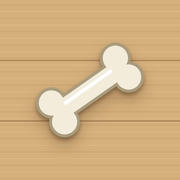
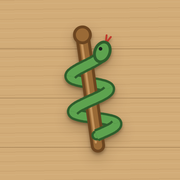
Människokroppen 1.1: Asklepios-staven ersätter benet på bänken och som ikon
Claude-Session: https://claude.ai/code/session_016eVhoXegXU31gHNxpZ84cz

diff --git a/index.html b/index.html
@@ -411,7 +411,7 @@ footer.site a{color:#fff}
     americano: S+'<g transform="rotate(38 60 60)"><rect x="54" y="74" width="12" height="40" rx="5" fill="#1B1F1E"/><path d="M54 86l12-3M54 94l12-3M54 102l12-3" stroke="#555" stroke-width="1.5"/><path d="M60 8c17 0 28 13 28 30 0 14-9 24-18 31l-4 9H54l-4-9c-9-7-18-17-18-31C32 21 43 8 60 8z" fill="#1D5A84" stroke="#123E5C" stroke-width="3" stroke-linejoin="round"/><g fill="#A9CBE4"><circle cx="52" cy="21" r="2.5"/><circle cx="60" cy="21" r="2.5"/><circle cx="68" cy="21" r="2.5"/><circle cx="44" cy="30" r="2.5"/><circle cx="52" cy="30" r="2.5"/><circle cx="60" cy="30" r="2.5"/><circle cx="68" cy="30" r="2.5"/><circle cx="76" cy="30" r="2.5"/><circle cx="44" cy="39" r="2.5"/><circle cx="52" cy="39" r="2.5"/><circle cx="60" cy="39" r="2.5"/><circle cx="68" cy="39" r="2.5"/><circle cx="76" cy="39" r="2.5"/><circle cx="52" cy="48" r="2.5"/><circle cx="60" cy="48" r="2.5"/><circle cx="68" cy="48" r="2.5"/><circle cx="60" cy="57" r="2.5"/></g></g><circle cx="96" cy="96" r="12" fill="#D4E24A" stroke="#9FAD22" stroke-width="2"/><path d="M86 91c7 2 12 8 13 16" fill="none" stroke="#fff" stroke-opacity=".85" stroke-width="2"/></svg>',
     huvudstaden: S+'<circle cx="60" cy="62" r="47" fill="none" stroke="#B8892E" stroke-width="4"/><circle cx="60" cy="15" r="5" fill="#8C6520"/><circle cx="60" cy="109" r="5" fill="#8C6520"/><circle cx="60" cy="62" r="40" fill="#5FA8D3" stroke="#2F6F99" stroke-width="2.5"/><g fill="#7DB56A"><path d="M38 40c8-8 20-8 26-2 4 5-2 10-8 12-4 2-3 8-9 9-8 1-14-10-9-19z"/><path d="M70 62c8-3 18 2 18 10s-8 16-14 14c-6-2-2-9-6-13-3-4-3-9 2-11z"/><path d="M40 78c5-2 10 2 9 7-1 4-7 5-10 1-2-3-2-6 1-8z"/></g><path d="M32 46a32 32 0 0 1 26-18" fill="none" stroke="#fff" stroke-opacity=".3" stroke-width="5" stroke-linecap="round"/><ellipse cx="62" cy="50" rx="7" ry="3" fill="#000" fill-opacity=".25"/><circle cx="58" cy="44" r="8" fill="#D8412F" stroke="#9C2A1C" stroke-width="2"/><circle cx="55.5" cy="41.5" r="2.4" fill="#fff" fill-opacity=".75"/></svg>',
     floder: S+'<g transform="rotate(-6 60 60)"><rect x="12" y="22" width="96" height="76" rx="3" fill="#F3EAD2" stroke="#C9BB95" stroke-width="2"/><path d="M12 62c14-10 22 6 34 2s14-18 30-14 20 16 32 10v38H12z" fill="#D5E3B8"/><path d="M44 22v76M76 22v76" stroke="#D5C9A6" stroke-width="1.5"/><path d="M20 32c14 2 16 14 28 16s14-8 24-4 10 18 30 22" fill="none" stroke="#2F86C5" stroke-width="4.5" stroke-linecap="round"/><path d="M50 49c-2 10-10 12-12 24" fill="none" stroke="#2F86C5" stroke-width="2.8" stroke-linecap="round"/><ellipse cx="38" cy="80" rx="12" ry="7" fill="#4FA3DD"/></g></svg>',
-    manniskokroppen: S+'<g transform="rotate(-35 60 60)"><g fill="#A99B7C" stroke="#A99B7C" stroke-width="5"><rect x="28" y="52" width="64" height="16" rx="8"/><circle cx="26" cy="50" r="11"/><circle cx="26" cy="70" r="11"/><circle cx="94" cy="50" r="11"/><circle cx="94" cy="70" r="11"/></g><g fill="#F3ECDB"><rect x="28" y="52" width="64" height="16" rx="8"/><circle cx="26" cy="50" r="11"/><circle cx="26" cy="70" r="11"/><circle cx="94" cy="50" r="11"/><circle cx="94" cy="70" r="11"/></g><path d="M36 57h48" stroke="#fff" stroke-width="3" stroke-linecap="round"/></g></svg>',
+    manniskokroppen: S+'<g transform="rotate(-8 60 60)"><g fill="none" stroke-linecap="round" stroke-linejoin="round"><g stroke="#2E5E2C" stroke-width="11"><path d="M78.4 92.0 L78.3 91.6 L78.1 91.2 L77.7 90.9 L77.3 90.5 L76.8 90.2 L76.2 89.8 L75.6 89.5 L74.9 89.2 L74.1 88.8 L73.2 88.5 L72.2 88.1 L71.2 87.8 L70.2 87.4 L69.1 87.0 L68.0 86.7 L66.8 86.3 L65.6 86.0 L64.3 85.7 L63.1 85.3 L61.8 85.0 L60.6 84.6 L59.3 84.2 L58.0 83.9 L56.8 83.5 L55.6 83.2 L54.4 82.8 L53.2 82.5 L52.0 82.2 L51.0 81.8 L49.9 81.5 L48.9 81.1 L48.0 80.8 L47.1 80.4 L46.3 80.0 L45.6 79.7 L44.9 79.3 L44.3 79.0 L43.8 78.7 L43.4 78.3 L43.1 78.0 L42.8 77.6 L42.7 77.2 L42.6 76.9 L42.6 76.5"/><path d="M76.3 60.8 L76.2 60.5 L76.0 60.1 L75.7 59.8 L75.3 59.4 L74.8 59.1 L74.3 58.7 L73.7 58.4 L73.1 58.0 L72.3 57.6 L71.6 57.3 L70.7 57.0 L69.8 56.6 L68.9 56.2 L67.9 55.9 L66.9 55.5 L65.9 55.2 L64.8 54.9 L63.7 54.5 L62.6 54.1 L61.5 53.8 L60.4 53.4 L59.3 53.1 L58.1 52.8 L57.0 52.4 L56.0 52.0 L54.9 51.7 L53.9 51.4 L52.9 51.0 L51.9 50.7 L51.0 50.3 L50.1 50.0 L49.3 49.6 L48.6 49.2 L47.9 48.9 L47.2 48.6 L46.7 48.2 L46.2 47.9 L45.7 47.5 L45.4 47.1 L45.1 46.8 L44.9 46.4 L44.8 46.1 L44.7 45.8 L44.7 45.4"/></g><g stroke="#5DA34F" stroke-width="7"><path d="M78.4 92.0 L78.3 91.6 L78.1 91.2 L77.7 90.9 L77.3 90.5 L76.8 90.2 L76.2 89.8 L75.6 89.5 L74.9 89.2 L74.1 88.8 L73.2 88.5 L72.2 88.1 L71.2 87.8 L70.2 87.4 L69.1 87.0 L68.0 86.7 L66.8 86.3 L65.6 86.0 L64.3 85.7 L63.1 85.3 L61.8 85.0 L60.6 84.6 L59.3 84.2 L58.0 83.9 L56.8 83.5 L55.6 83.2 L54.4 82.8 L53.2 82.5 L52.0 82.2 L51.0 81.8 L49.9 81.5 L48.9 81.1 L48.0 80.8 L47.1 80.4 L46.3 80.0 L45.6 79.7 L44.9 79.3 L44.3 79.0 L43.8 78.7 L43.4 78.3 L43.1 78.0 L42.8 77.6 L42.7 77.2 L42.6 76.9 L42.6 76.5"/><path d="M76.3 60.8 L76.2 60.5 L76.0 60.1 L75.7 59.8 L75.3 59.4 L74.8 59.1 L74.3 58.7 L73.7 58.4 L73.1 58.0 L72.3 57.6 L71.6 57.3 L70.7 57.0 L69.8 56.6 L68.9 56.2 L67.9 55.9 L66.9 55.5 L65.9 55.2 L64.8 54.9 L63.7 54.5 L62.6 54.1 L61.5 53.8 L60.4 53.4 L59.3 53.1 L58.1 52.8 L57.0 52.4 L56.0 52.0 L54.9 51.7 L53.9 51.4 L52.9 51.0 L51.9 50.7 L51.0 50.3 L50.1 50.0 L49.3 49.6 L48.6 49.2 L47.9 48.9 L47.2 48.6 L46.7 48.2 L46.2 47.9 L45.7 47.5 L45.4 47.1 L45.1 46.8 L44.9 46.4 L44.8 46.1 L44.7 45.8 L44.7 45.4"/></g></g><rect x="55" y="10" width="10" height="104" rx="5" fill="#9A6A36" stroke="#6B4520" stroke-width="2.5"/><path d="M58.5 18v88" stroke="#C4945C" stroke-width="2" stroke-linecap="round"/><circle cx="60" cy="11" r="7" fill="#9A6A36" stroke="#6B4520" stroke-width="2.5"/><circle cx="60.0" cy="100.0" r="3.5" fill="#5DA34F" stroke="#2E5E2C" stroke-width="2"/><g fill="none" stroke-linecap="butt" stroke-linejoin="round"><g stroke="#2E5E2C" stroke-width="11"><path d="M60.0 100.0 L61.3 99.7 L62.7 99.3 L64.0 99.0 L65.3 98.6 L66.5 98.2 L67.8 97.9 L68.9 97.5 L70.1 97.2 L71.2 96.8 L72.2 96.5 L73.1 96.2 L74.0 95.8 L74.9 95.5 L75.6 95.1 L76.3 94.8 L76.8 94.4 L77.3 94.0 L77.8 93.7 L78.1 93.3 L78.3 93.0 L78.4 92.7 L78.5 92.3 L78.4 92.0"/><path d="M42.6 76.5 L42.7 76.2 L42.9 75.8 L43.1 75.5 L43.5 75.2 L43.9 74.8 L44.4 74.5 L45.0 74.1 L45.7 73.8 L46.4 73.4 L47.2 73.0 L48.1 72.7 L49.0 72.3 L49.9 72.0 L51.0 71.7 L52.0 71.3 L53.1 71.0 L54.2 70.6 L55.4 70.2 L56.6 69.9 L57.7 69.5 L58.9 69.2 L60.1 68.8 L61.3 68.5 L62.5 68.2 L63.7 67.8 L64.8 67.4 L65.9 67.1 L67.0 66.8 L68.1 66.4 L69.1 66.1 L70.0 65.7 L70.9 65.3 L71.8 65.0 L72.5 64.7 L73.3 64.3 L73.9 63.9 L74.5 63.6 L75.0 63.2 L75.4 62.9 L75.8 62.5 L76.0 62.2 L76.2 61.8 L76.3 61.5 L76.4 61.1 L76.3 60.8"/><path d="M44.7 45.4 L44.8 45.0 L45.0 44.7 L45.2 44.3 L45.5 44.0 L45.9 43.6 L46.4 43.3 L46.9 43.0 L47.5 42.6 L48.2 42.2 L48.9 41.9 L49.6 41.6 L50.4 41.2 L51.3 40.9 L52.2 40.5 L53.1 40.1 L54.1 39.8 L55.1 39.5 L56.1 39.1 L57.1 38.8 L58.1 38.4 L59.2 38.0 L60.2 37.7 L61.3 37.4 L62.3 37.0 L63.3 36.6 L64.3 36.3 L65.3 36.0 L66.2 35.6 L67.1 35.2 L68.0 34.9 L68.8 34.5 L69.6 34.2 L70.3 33.9 L71.0 33.5 L71.6 33.2 L72.2 32.8 L72.7 32.5 L73.1 32.1 L73.5 31.8 L73.8 31.4 L74.0 31.0 L74.2 30.7 L74.2 30.3 L74.2 30.0"/></g><g stroke="#5DA34F" stroke-width="7"><path d="M60.0 100.0 L61.3 99.7 L62.7 99.3 L64.0 99.0 L65.3 98.6 L66.5 98.2 L67.8 97.9 L68.9 97.5 L70.1 97.2 L71.2 96.8 L72.2 96.5 L73.1 96.2 L74.0 95.8 L74.9 95.5 L75.6 95.1 L76.3 94.8 L76.8 94.4 L77.3 94.0 L77.8 93.7 L78.1 93.3 L78.3 93.0 L78.4 92.7 L78.5 92.3 L78.4 92.0"/><path d="M42.6 76.5 L42.7 76.2 L42.9 75.8 L43.1 75.5 L43.5 75.2 L43.9 74.8 L44.4 74.5 L45.0 74.1 L45.7 73.8 L46.4 73.4 L47.2 73.0 L48.1 72.7 L49.0 72.3 L49.9 72.0 L51.0 71.7 L52.0 71.3 L53.1 71.0 L54.2 70.6 L55.4 70.2 L56.6 69.9 L57.7 69.5 L58.9 69.2 L60.1 68.8 L61.3 68.5 L62.5 68.2 L63.7 67.8 L64.8 67.4 L65.9 67.1 L67.0 66.8 L68.1 66.4 L69.1 66.1 L70.0 65.7 L70.9 65.3 L71.8 65.0 L72.5 64.7 L73.3 64.3 L73.9 63.9 L74.5 63.6 L75.0 63.2 L75.4 62.9 L75.8 62.5 L76.0 62.2 L76.2 61.8 L76.3 61.5 L76.4 61.1 L76.3 60.8"/><path d="M44.7 45.4 L44.8 45.0 L45.0 44.7 L45.2 44.3 L45.5 44.0 L45.9 43.6 L46.4 43.3 L46.9 43.0 L47.5 42.6 L48.2 42.2 L48.9 41.9 L49.6 41.6 L50.4 41.2 L51.3 40.9 L52.2 40.5 L53.1 40.1 L54.1 39.8 L55.1 39.5 L56.1 39.1 L57.1 38.8 L58.1 38.4 L59.2 38.0 L60.2 37.7 L61.3 37.4 L62.3 37.0 L63.3 36.6 L64.3 36.3 L65.3 36.0 L66.2 35.6 L67.1 35.2 L68.0 34.9 L68.8 34.5 L69.6 34.2 L70.3 33.9 L71.0 33.5 L71.6 33.2 L72.2 32.8 L72.7 32.5 L73.1 32.1 L73.5 31.8 L73.8 31.4 L74.0 31.0 L74.2 30.7 L74.2 30.3 L74.2 30.0"/></g></g><g transform="translate(74.2 30.0) rotate(-60)"><path d="M10 0l7-2M10 0l7 2" stroke="#C0392B" stroke-width="1.6" stroke-linecap="round"/><ellipse cx="2" cy="0" rx="9" ry="6.5" fill="#5DA34F" stroke="#2E5E2C" stroke-width="2.5"/><circle cx="4" cy="-2.5" r="1.6" fill="#1B1F1E"/></g></g></svg>',
     kung: S+'<g transform="rotate(9 60 60)"><rect x="29" y="12" width="62" height="96" rx="7" fill="#FFFDF7" stroke="#C4BCA8" stroke-width="2"/><text x="36" y="33" font-family="Georgia,serif" font-weight="700" font-size="17" fill="#B3261E">K</text><text x="84" y="87" font-family="Georgia,serif" font-weight="700" font-size="17" fill="#B3261E" transform="rotate(180 84 87)" text-anchor="start">K</text><path d="M41 72l3-24 10 11 6-16 6 16 10-11 3 24z" fill="#E3B23C" stroke="#9C7210" stroke-width="2" stroke-linejoin="round"/><rect x="40" y="71" width="40" height="8" rx="2" fill="#C8922A" stroke="#9C7210" stroke-width="1.5"/><circle cx="50" cy="75" r="2" fill="#B3261E"/><circle cx="60" cy="75" r="2" fill="#1D5A84"/><circle cx="70" cy="75" r="2" fill="#B3261E"/><circle cx="44" cy="47" r="3" fill="#E3B23C" stroke="#9C7210" stroke-width="1.5"/><circle cx="60" cy="42" r="3" fill="#E3B23C" stroke="#9C7210" stroke-width="1.5"/><circle cx="76" cy="47" r="3" fill="#E3B23C" stroke="#9C7210" stroke-width="1.5"/></g></svg>',
     flest: S+'<rect x="15" y="21" width="90" height="78" rx="7" fill="#F1E3C6" stroke="#7A4E2A" stroke-width="7"/><path d="M18 41h84M18 60h84M18 79h84" stroke="#555" stroke-width="2"/><g fill="#D8412F" stroke="#9C2A1C" stroke-width="1.5"><rect x="23" y="33" width="11" height="16" rx="5"/><rect x="35" y="33" width="11" height="16" rx="5"/><rect x="47" y="33" width="11" height="16" rx="5"/><rect x="74" y="33" width="11" height="16" rx="5"/><rect x="86" y="33" width="11" height="16" rx="5"/></g><g fill="#E8B321" stroke="#A87A12" stroke-width="1.5"><rect x="23" y="52" width="11" height="16" rx="5"/><rect x="50" y="52" width="11" height="16" rx="5"/><rect x="62" y="52" width="11" height="16" rx="5"/><rect x="74" y="52" width="11" height="16" rx="5"/><rect x="86" y="52" width="11" height="16" rx="5"/></g><g fill="#2F86C5" stroke="#1D5A84" stroke-width="1.5"><rect x="23" y="71" width="11" height="16" rx="5"/><rect x="35" y="71" width="11" height="16" rx="5"/><rect x="47" y="71" width="11" height="16" rx="5"/><rect x="59" y="71" width="11" height="16" rx="5"/><rect x="86" y="71" width="11" height="16" rx="5"/></g></svg>',
     fragesport: S+'<rect x="31" y="20" width="58" height="80" rx="7" fill="#F4EAD0" stroke="#C4B894" stroke-width="2" transform="rotate(-16 60 60)"/><rect x="31" y="20" width="58" height="80" rx="7" fill="#DCE9F1" stroke="#9DB7C8" stroke-width="2" transform="rotate(-4 60 60)"/><g transform="rotate(9 60 60)"><rect x="31" y="20" width="58" height="80" rx="7" fill="#E8873A" stroke="#B05A18" stroke-width="2"/><rect x="37" y="26" width="46" height="68" rx="4" fill="none" stroke="#fff" stroke-opacity=".5" stroke-width="1.5"/><text x="60" y="79" text-anchor="middle" font-family="Space Grotesk,Arial,sans-serif" font-weight="700" font-size="52" fill="#fff">?</text></g></svg>',

diff --git a/manniskokroppen/sw.js b/manniskokroppen/sw.js
@@ -1,6 +1,6 @@
 // Keeps the game usable offline: network first, cached copy as fallback.
 // Bump the version when the game changes.
-const C="manniskokroppen-v1.0";
+const C="manniskokroppen-v1.1";
 const FILES=["./","index.html","manifest.json","icon-180.png","icon-192.png","icon-512.png"];
 self.addEventListener("install",e=>{e.waitUntil(caches.open(C).then(c=>c.addAll(FILES)));self.skipWaiting()});
 self.addEventListener("activate",e=>{e.waitUntil(caches.keys().then(k=>Promise.all(k.filter(x=>x.startsWith("manniskokroppen-")&&x!==C).map(x=>caches.delete(x)))));self.clients.claim()});

diff --git a/manniskokroppen/index.html b/manniskokroppen/index.html
@@ -131,7 +131,7 @@ g.lm.miss .ring{stroke:var(--miss)} g.lm.miss .ringdot{fill:var(--miss)}
     </svg>
   </div>
   <p class="foot">Kroppen visas framifrån. Delar som finns på båda sidor räknas rätt oavsett sida. DX och SIN är personens högra och vänstra sida, som på en röntgenbild.</p>
-  <p class="ver"><a href="../">&larr; Alla Peters appar</a> · Version 1.0 · 3 november 2026</p>
+  <p class="ver"><a href="../">&larr; Alla Peters appar</a> · Version 1.1 · 12 november 2026</p>
 </div>
 
 <script>
